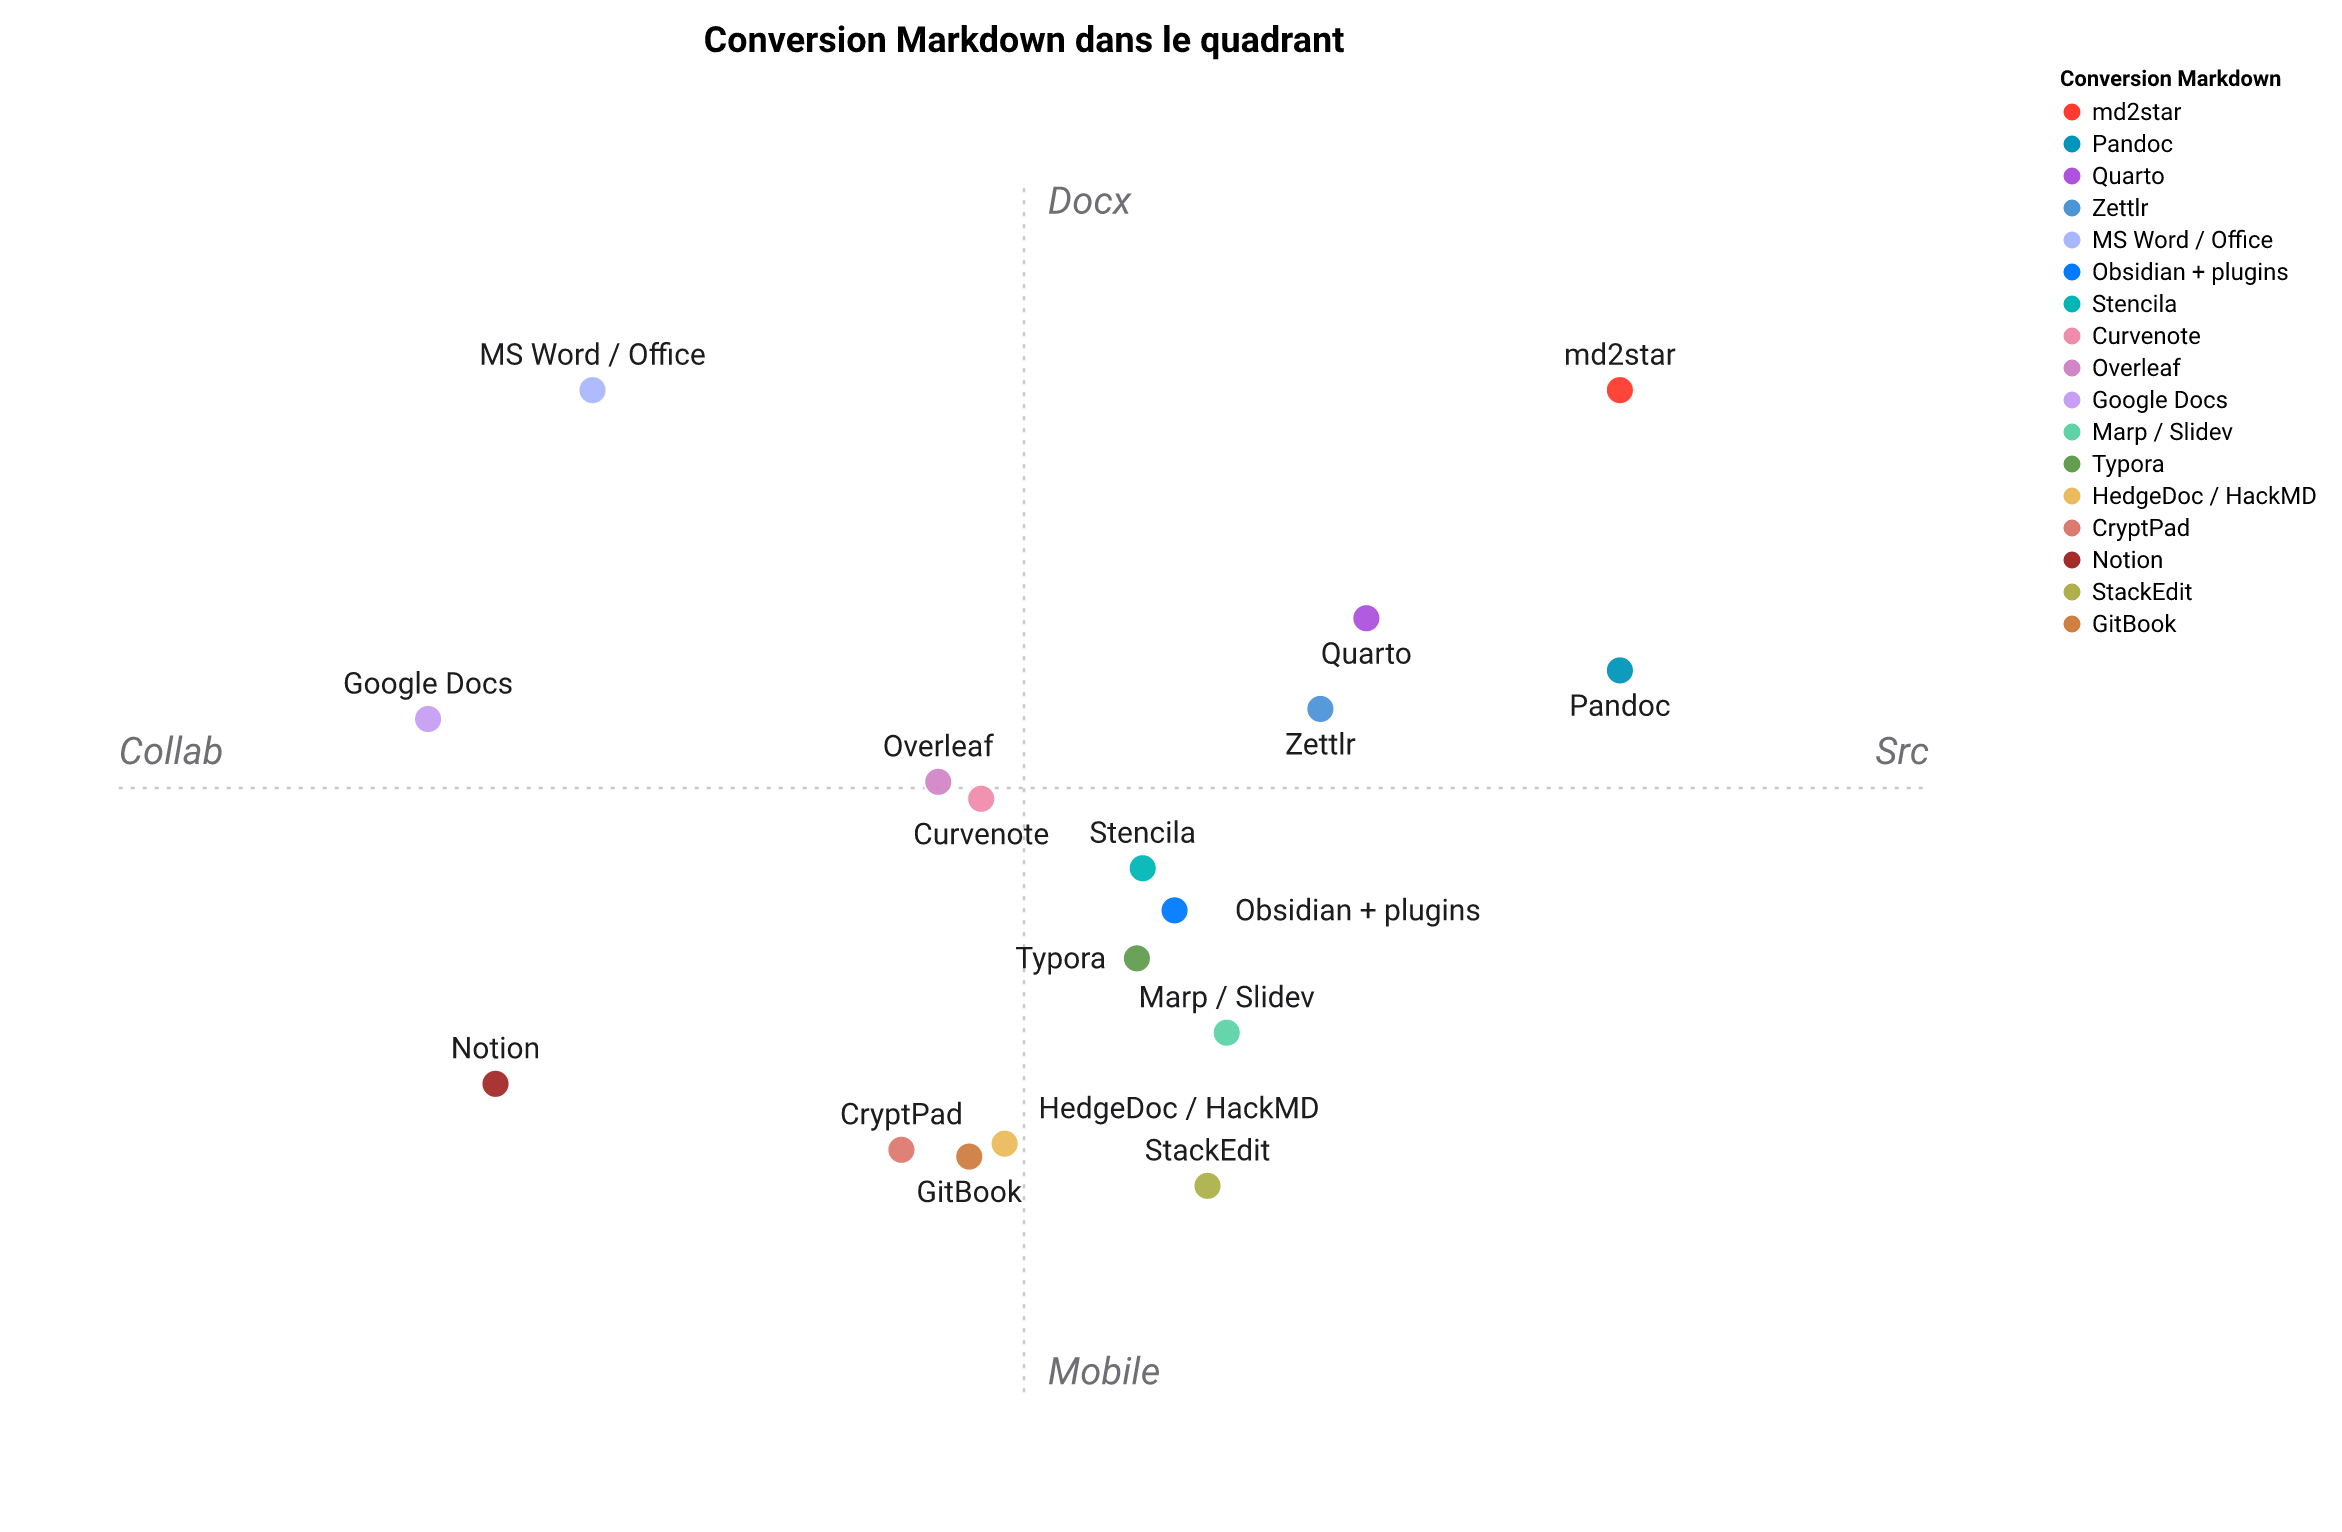
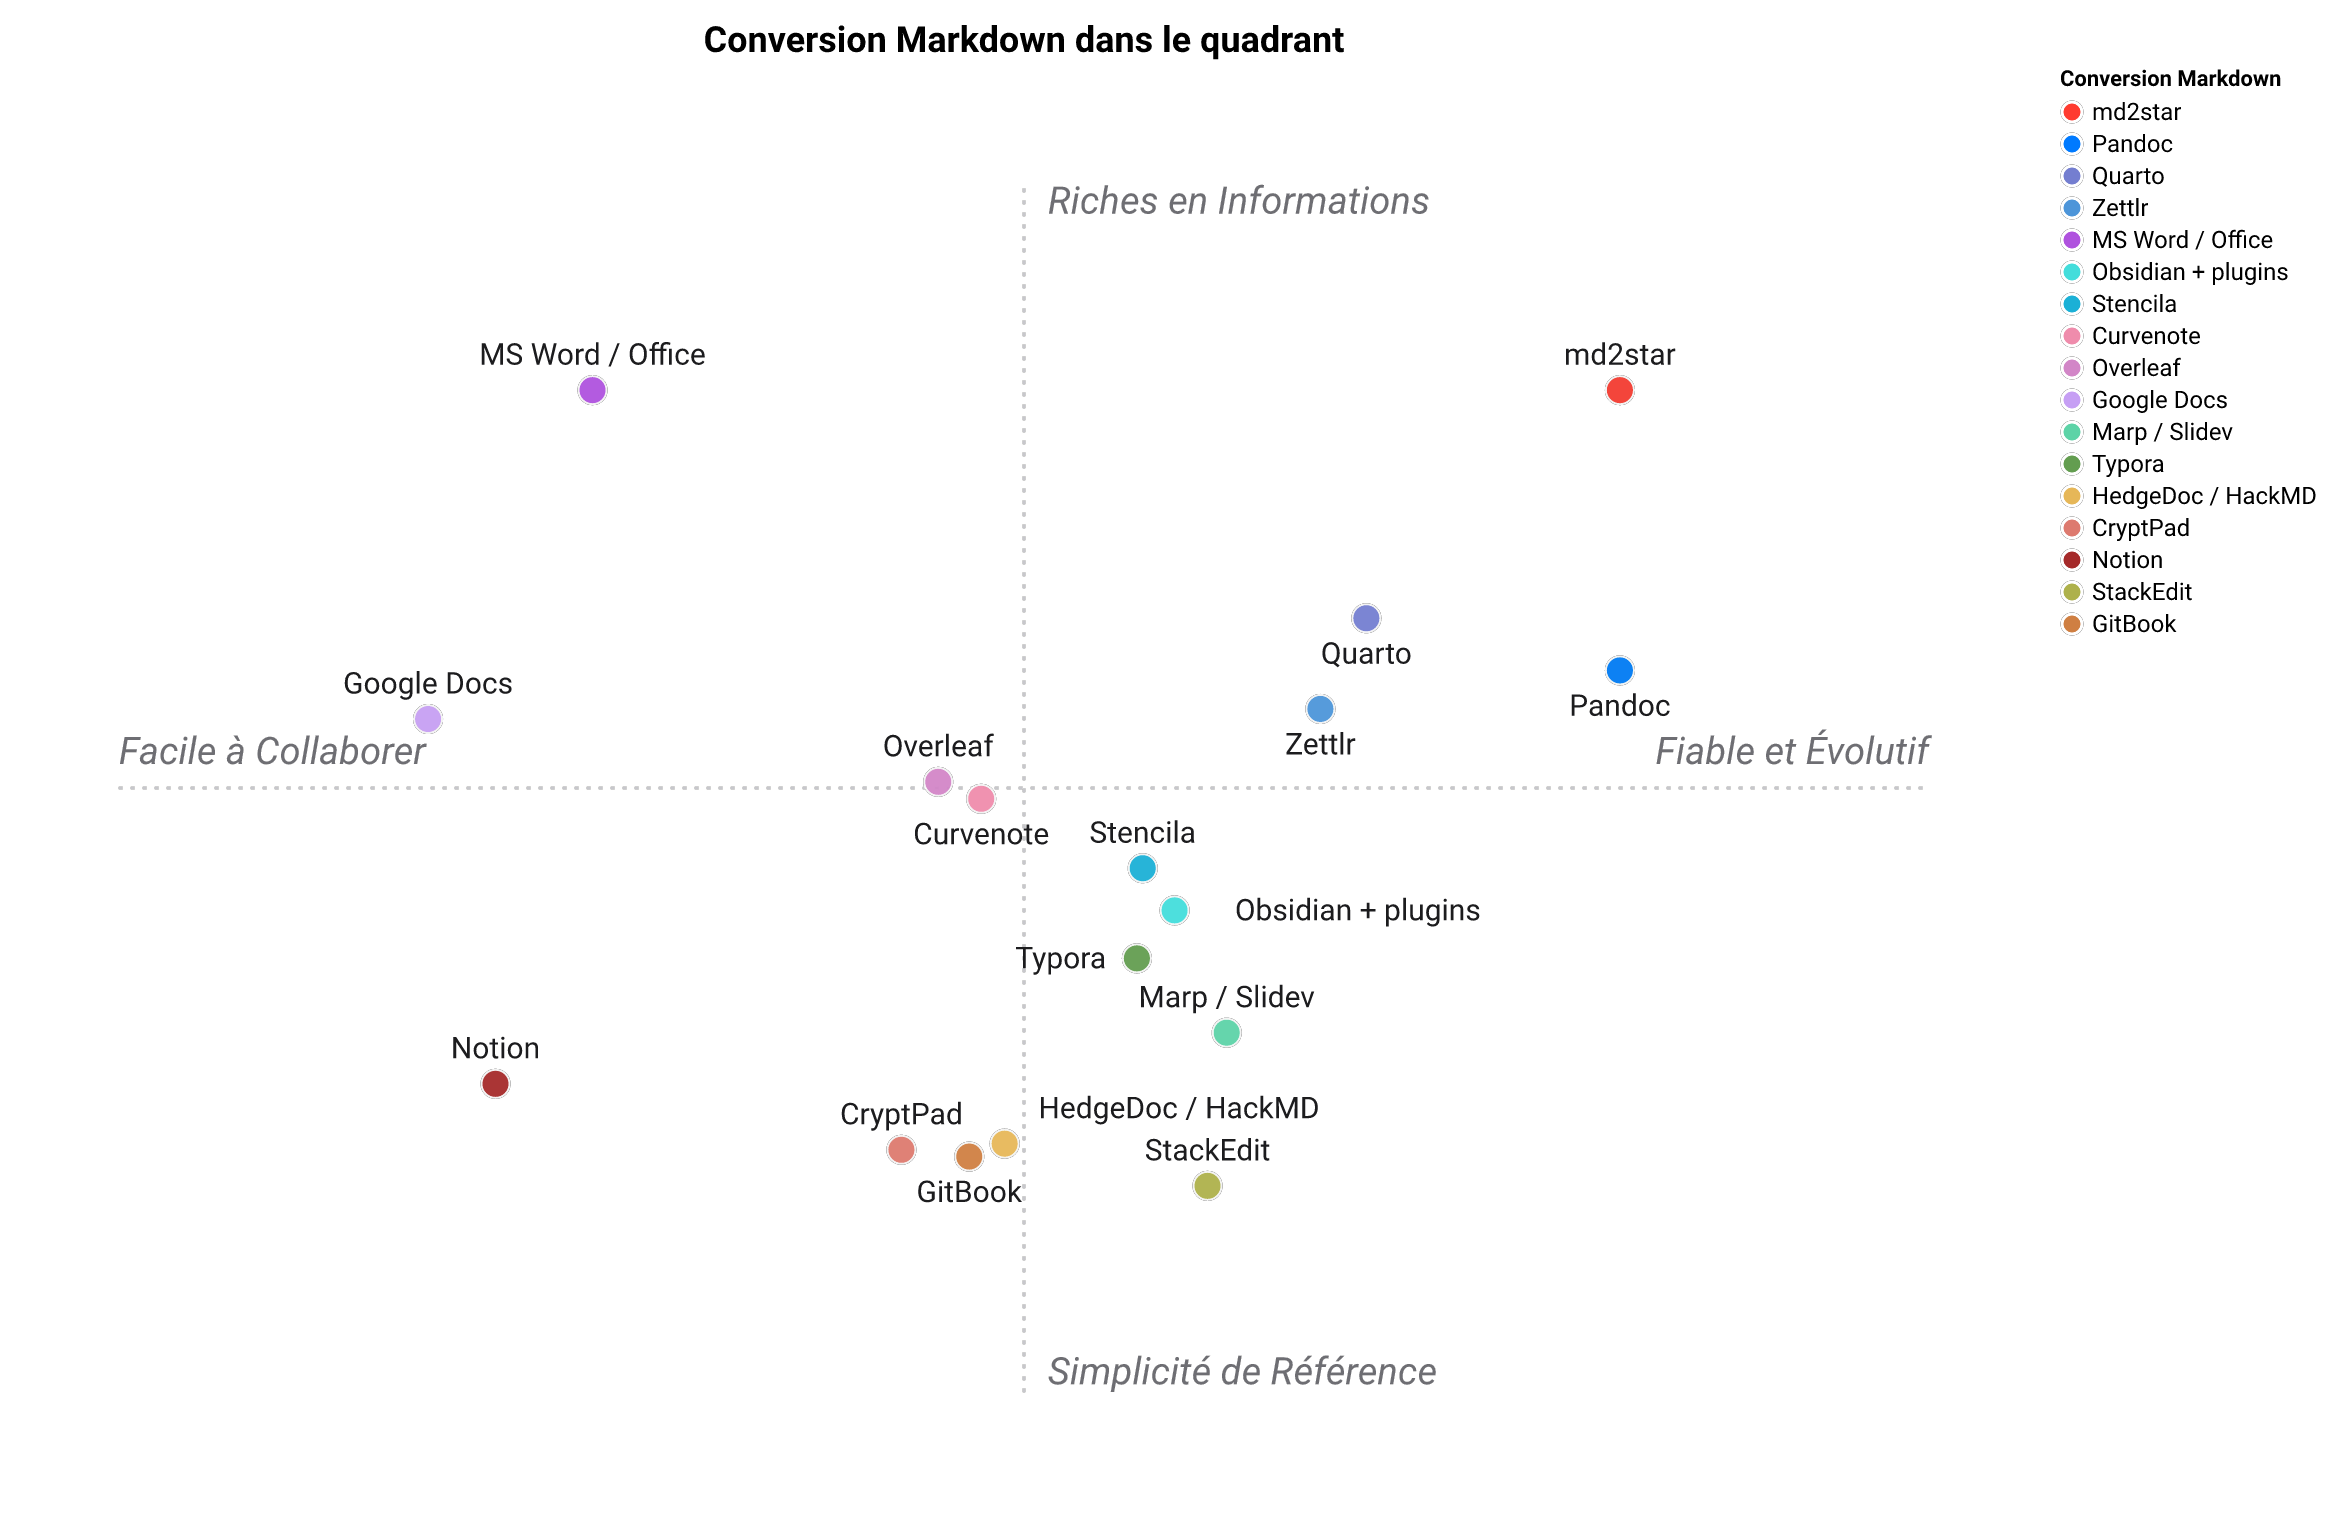
Landscape: CSV as source of truth; regenerate table/figure/commentary
- assets/landscape.csv & assets/paysage.csv are now the committed source of
  truth (integer ratings + domain label in the first cell). The star table, the
  positioning figure and the commentary in LANDSCAPE.md / PAYSAGE.md are
  regenerated from them by scripts/gen_landscape.py (standingpoint, LLM axis
  names), inside managed <!-- TABLE --> / <!-- FIGURE --> marker regions.
- Axis names use the LLM plain-word poles.

diff --git a/PAYSAGE.md b/PAYSAGE.md
@@ -20,6 +20,7 @@ dépassé.
 
 ## En un coup d'œil
 
+<!-- TABLE:START -->
 | Conversion Markdown | MD-src | WYSIWYG | DOCX | PPTX | PDF | Citations | Diagrammes | Maths | LLM local | Hors ligne | OSS | Collab temps réel | Git-async | Mobile |
 | --- | :---: | :---: | :---: | :---: | :---: | :---: | :---: | :---: | :---: | :---: | :---: | :---: | :---: | :---: |
 | **md2star** | ⭐⭐⭐⭐⭐ | ⭐⭐⭐ | ⭐⭐⭐⭐ | ⭐⭐⭐⭐ | ⭐⭐⭐⭐ | ⭐⭐⭐⭐ | ⭐⭐⭐⭐ | ⭐⭐⭐ | ⭐⭐⭐ | ⭐⭐⭐⭐⭐ | ⭐⭐⭐⭐⭐ | ⭐ | ⭐⭐⭐ | ⭐⭐ |
@@ -39,14 +40,17 @@ dépassé.
 | Google Docs | ⭐⭐ | ⭐⭐⭐⭐⭐ | ⭐⭐⭐⭐ | ⭐⭐⭐⭐ | ⭐⭐⭐⭐⭐ | ⭐⭐⭐ | ⭐⭐ | ⭐⭐ | ⭐ | ⭐⭐ | ⭐ | ⭐⭐⭐⭐⭐ | ⭐ | ⭐⭐⭐⭐⭐ |
 | Overleaf | ⭐ | ⭐⭐ | ⭐⭐ | ⭐⭐ | ⭐⭐⭐⭐⭐ | ⭐⭐⭐⭐⭐ | ⭐⭐⭐⭐ | ⭐⭐⭐⭐⭐ | ⭐ | ⭐⭐ | ⭐⭐⭐ | ⭐⭐⭐⭐⭐ | ⭐⭐⭐⭐ | ⭐⭐⭐ |
 | MS Word / Office | ⭐ | ⭐⭐⭐⭐⭐ | ⭐⭐⭐⭐⭐ | ⭐⭐⭐⭐⭐ | ⭐⭐⭐⭐⭐ | ⭐⭐⭐⭐ | ⭐⭐⭐⭐ | ⭐⭐⭐⭐ | ⭐ | ⭐⭐⭐⭐ | ⭐ | ⭐⭐⭐⭐ | ⭐ | ⭐⭐⭐⭐ |
+<!-- TABLE:END -->
 
 ## Carte de positionnement
 
+<!-- FIGURE:START -->
 Représentation 2D du tableau ci-dessus.
 
 ![Carte de positionnement](https://raw.githubusercontent.com/warith-harchaoui/md2star/main/assets/paysage.png)
 
-La carte est un résumé en 2D des 14 critères : à lire comme une forme, pas comme un classement. « md2star » se situe dans le coin en haut à droite. Les axes se lisent **Horizontal — Collab ↔ Src** et **Vertical — Mobile ↔ Docx**.
+La carte est un résumé en 2D des 14 critères : à lire comme une forme, pas comme un classement. « md2star » se situe dans le coin en haut à droite. Les axes se lisent **Horizontal — Facile à Collaborer ↔ Fiable et Évolutif** et **Vertical — Simplicité de Référence ↔ Riches en Informations**.
+<!-- FIGURE:END -->
 
 ## Légende des colonnes
 

diff --git a/LANDSCAPE.md b/LANDSCAPE.md
@@ -20,6 +20,7 @@ date.
 
 ## At a glance
 
+<!-- TABLE:START -->
 | Markdown Conversion | MD-src | WYSIWYG | DOCX | PPTX | PDF | Cite | Diagrams | Math | Local-LLM | Offline | OSS | RT-collab | Git-async | Mobile |
 | --- | :---: | :---: | :---: | :---: | :---: | :---: | :---: | :---: | :---: | :---: | :---: | :---: | :---: | :---: |
 | **md2star** | ⭐⭐⭐⭐⭐ | ⭐⭐⭐ | ⭐⭐⭐⭐ | ⭐⭐⭐⭐ | ⭐⭐⭐⭐ | ⭐⭐⭐⭐ | ⭐⭐⭐⭐ | ⭐⭐⭐ | ⭐⭐⭐ | ⭐⭐⭐⭐⭐ | ⭐⭐⭐⭐⭐ | ⭐ | ⭐⭐⭐ | ⭐⭐ |
@@ -39,14 +40,17 @@ date.
 | Google Docs | ⭐⭐ | ⭐⭐⭐⭐⭐ | ⭐⭐⭐⭐ | ⭐⭐⭐⭐ | ⭐⭐⭐⭐⭐ | ⭐⭐⭐ | ⭐⭐ | ⭐⭐ | ⭐ | ⭐⭐ | ⭐ | ⭐⭐⭐⭐⭐ | ⭐ | ⭐⭐⭐⭐⭐ |
 | Overleaf | ⭐ | ⭐⭐ | ⭐⭐ | ⭐⭐ | ⭐⭐⭐⭐⭐ | ⭐⭐⭐⭐⭐ | ⭐⭐⭐⭐ | ⭐⭐⭐⭐⭐ | ⭐ | ⭐⭐ | ⭐⭐⭐ | ⭐⭐⭐⭐⭐ | ⭐⭐⭐⭐ | ⭐⭐⭐ |
 | MS Word / Office | ⭐ | ⭐⭐⭐⭐⭐ | ⭐⭐⭐⭐⭐ | ⭐⭐⭐⭐⭐ | ⭐⭐⭐⭐⭐ | ⭐⭐⭐⭐ | ⭐⭐⭐⭐ | ⭐⭐⭐⭐ | ⭐ | ⭐⭐⭐⭐ | ⭐ | ⭐⭐⭐⭐ | ⭐ | ⭐⭐⭐⭐ |
+<!-- TABLE:END -->
 
 ## Positioning map
 
+<!-- FIGURE:START -->
 2D representation of the table above.
 
 ![Positioning map](https://raw.githubusercontent.com/warith-harchaoui/md2star/main/assets/landscape.png)
 
-The map is a 2-D summary of the fourteen criteria, so read it as a shape, not a scoreboard. `md2star` is at the top-right corner. The axes read **Horizontal — Collab ↔ Src** and **Vertical — Mobile ↔ Docx**.
+The map is a 2-D summary of the fourteen criteria, so read it as a shape, not a scoreboard. `md2star` is at the top-right corner. The axes read **Horizontal — Innovative ↔ Adaptive** and **Vertical — Practical ↔ Comprehensive**.
+<!-- FIGURE:END -->
 
 ## Column legend
 
